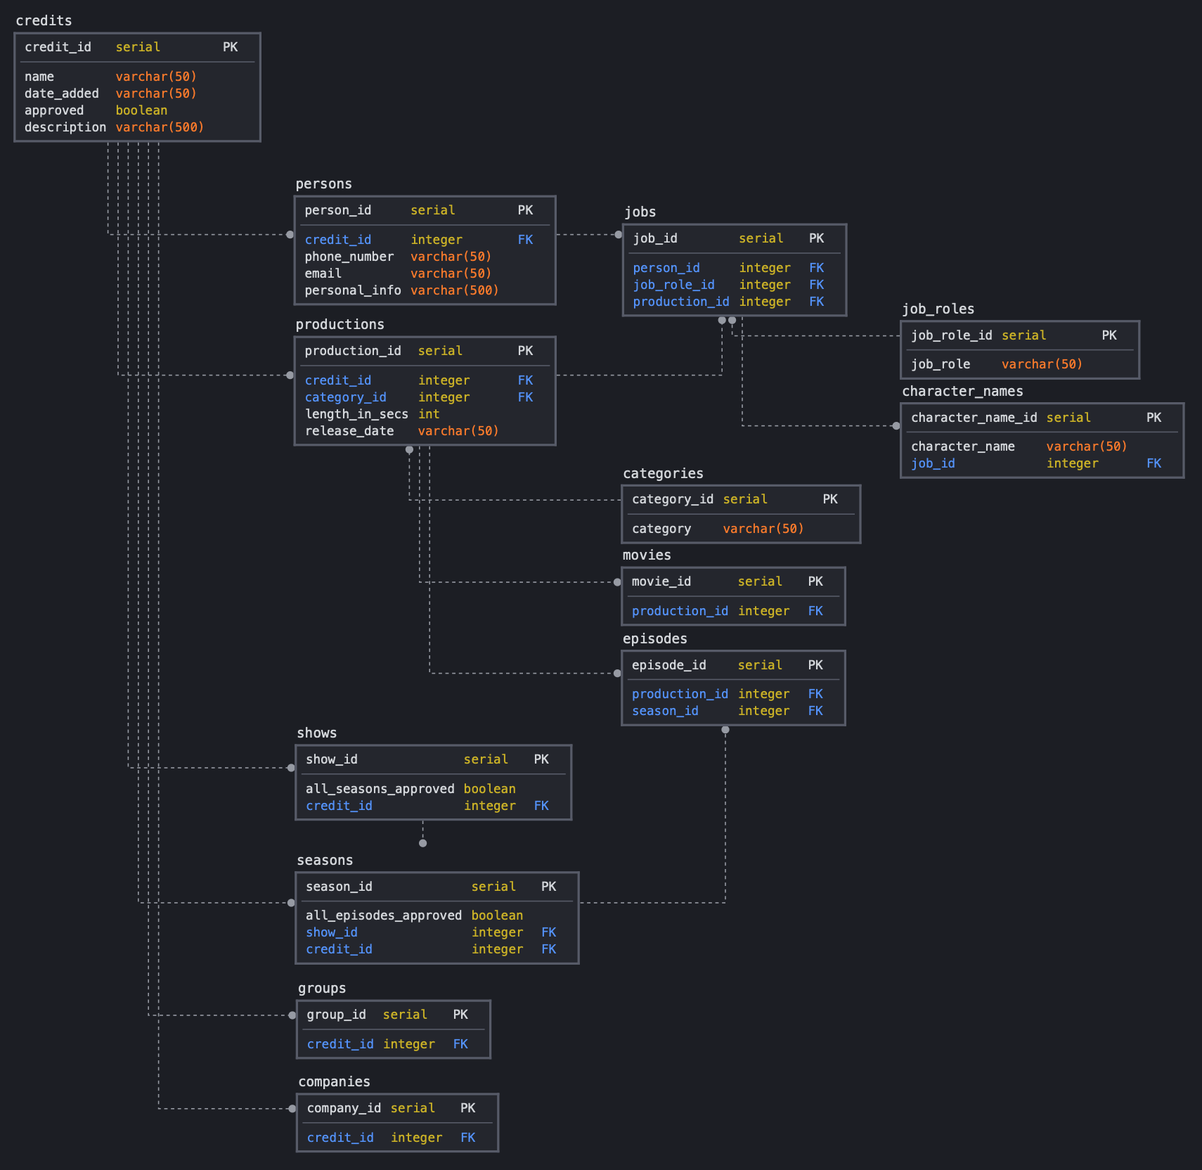
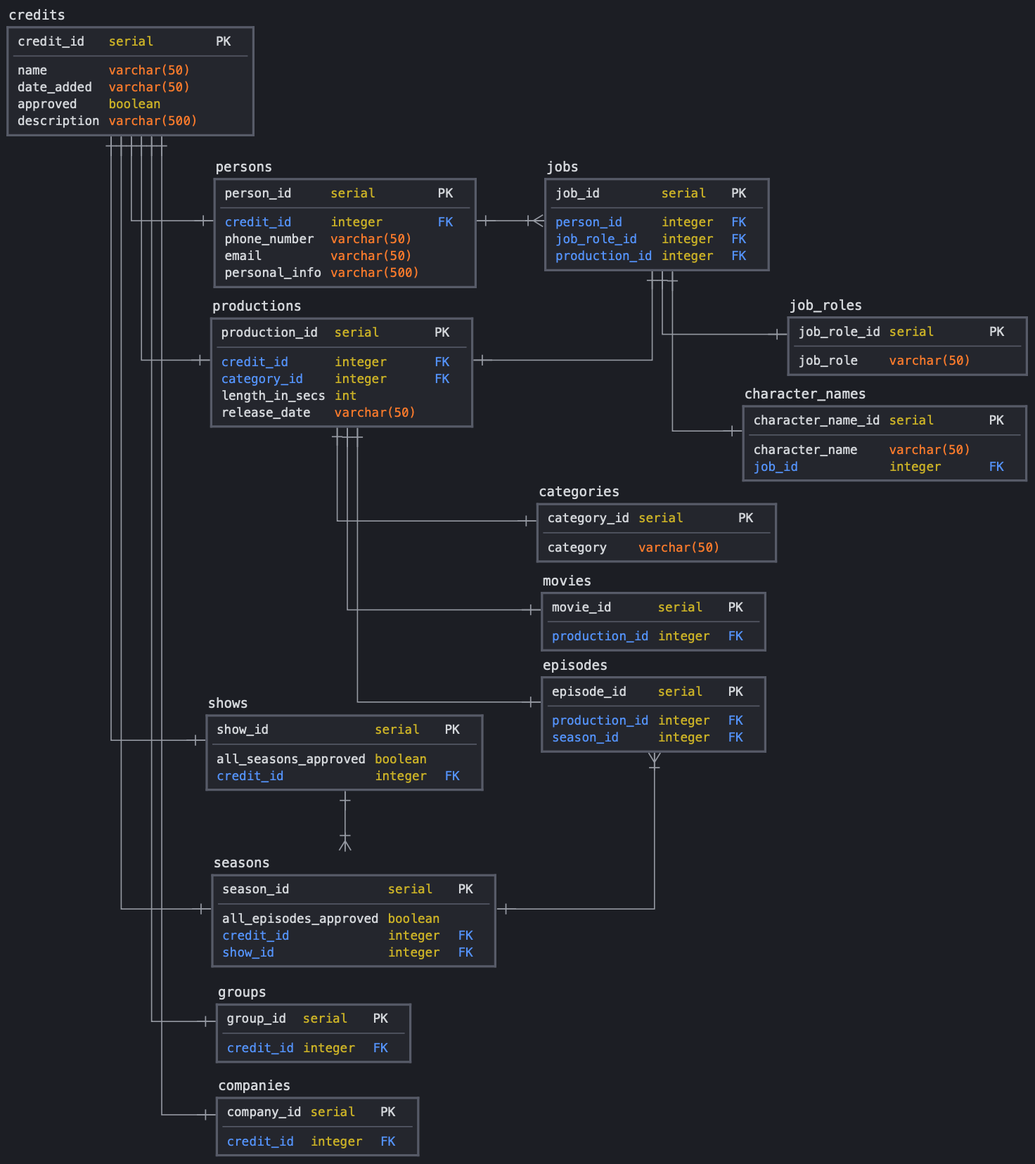
Updates from Overleaf

diff --git a/sections/8procesevaluering.tex b/sections/8procesevaluering.tex
@@ -32,9 +32,11 @@ SCRUM er et utroligt effektiv projekt styringsværktøj til agil udvikling af so
 Men det er én ting at skrive tanker og overvejelser ned. Det er en anden sag at anvende det, og det viste sig at have varierende effektivitet. Samlet set nåede gruppen at holde 4 Sprint. Første sprint var meget kort, og handlede om at lave struktur omkring objektopbygningen og få startet på en GUI. Dette sprint gik godt da opgaverne var delt ud i meget små bidder, som var hurtige at implementere. Samtidig var alle opgaver repræsenteret i et Sprint Backlog via et kanban board på GitHub. Dette gjorde det nemt at se hvad der skulle laves, hvem der havde ansvar for hvad, hvad der var blevet lavet og hvor meget der manglede. Alt i alt et godt sprint.\\\\
 Sprint 2 var en anden sag. Da vi planlagde sprint 2 aftalte vi at det skulle handle om input og output til filer, hvilket er et fint mål. Det gik dog galt da opgaverne blev delt op på to punkter. Input/outpu på gui og read/write på filer.Dette er meget svært at forholde sig til. Ja der skal skrives til filer, men hvad kan én der sidder ikke og laver noget gå i gang med. Da kanban kun indeholder to punkter kan man ikke visualisere sig hvilket funktionalitet man skal implementere. Har forsvandt alle fordelene ved SCRUM da denne opdeling fjerne den inkrementele del af det, da det ender med at opgaven først er færdig når man kan skrive til alle filer. Derved bliver det en big-bang levering i stedet, hvilket kan være fint nok, men ikke når man arbejder agilt. Godt nok snakkede gruppen om ved starten af sprintet at "jaja vi skal nok dele den ud i forhold til brugsmønstre osv." men realiteten er, at hvis det ikke sker allerede ved planlægningen af sprintet, så bliver det ikke rigtig gjort. Det viser sig at være sjovere bare at kode end det er at lave diagrammer og brugsmønsterrealiseringer. Implmenteringen endte godt nok med at virke, men koden var rodet, forvirrende og dårligt struktureret. Dette havde kunne forbedres hvis der var brug noget mere tid på at lave design, inden kodningen tog fart. Kodeleveringen var langsom og dårlig. Alt i alt, et elendigt sprint.\\\\
 Sprint 3 faldt efter midtvejsseminaret, hvor gruppen skulle fremlægge sit projekt, og få feedback, samt se andre fremlægge deres produkt, og give dem feedback. Dette blev lidt en øjenåbner da vi opdagede netop hvor dårlig strukturen på produktet var. Derfor var der enighed om, at sprint 3, handlede om restrukturering. Sprintplanlægningen gik til værks og det første der skulle klarlægges var et sprint mål. På gruppens GitHub blev sprintets mål defineret som: 
-The sprint goal for this sprint is a restructured program using interfaces, facades and singleton patterns to ensure a well-defined three-layered architecture, and minimizes the use og static
+
+\textit{The sprint goal for this sprint is a restructured program using interfaces, facades and singleton patterns to ensure a well-defined three-layered architecture, and minimizes the use og static
 As well as:
-A relational Database has been structured and defined but not implemented in the program.
+A relational Database has been structured and defined but not implemented in the program.}
+
 Altså var der i sprintplanlægningen svaret på hvad spørgsmålet. Hvad skal laves. Gruppen diskuterede derfor hvorfor sprintet var vigtigt, og nåede til enighed om, at kravene der var sat skulle overholdes, og det gjorde den nuværende struktur ikke. Og sidst manglede sprøgsmålet hvordan. Vi kom fra et netop dårligt sprint med alt for få og for brede opgaver, så dette skulle absolut ændres. Der blev lagt fokus på design-patterns som singleton og facader som skulle implementeres. Der var fokus på at databasen skulle opsættes. Der skulle implementeres interfaces på de forskellige objekter og static metoder skulle gøre non-static. Der var mange opgaver, men de havde en størrelse der var til at bide over, og der var nok opgaver til at alle kunne sidde med noget samtidig. Næsten lige som SCRUM skal være. Og endda da der ikke var flere opgaver, startede en dialog i gruppen og fandt hurtigt frem til en opgave der var relevant at gå i gang med, så spildtid blev minimeret inden sprintet var ovre. Der blev undervej f.eks. tilføjet en opgave om, at man skal kunne querye database, som ikke var inkludere i starten. Derved blev der leveret et inkrement mere end hvad var planlagt, for at minimere idle-time. Det endte med at være et udemærket sprint hvor gruppen opnåede en langt bedre struktur på produktet, særligt med hensigt om at overholde tre-lags-modellen.\\\\
 4. sprint var sidste sprint og der var massere at lave. Gruppen havde lært fra tidligere fejl, at opgaver ikke skal være for abstrakte og store. Dette var der meget fokus på, samt at bruge kanban endnu mere. Jo mere der bliver tilføjet til kanban, jo nemmere er det at have overblik over hvad status er pt. Hver gang et nyt issue, eller en ny fejl/mulighed opstod, blev der, i stedet for at gå i gang med en ny opgave så man sad med to, skrevet en ny note på kanban, så fokus kunne forblive på den nuværende opgave, og dermed færdiggøres. Derved kan resten af gruppen også gå i gang med disse i stedet for at sidde stille. 4 Sprint blev dog stort, og der blev leveret flere inkrementer. Måske var sprintet en smule for stort, men projektet var også ved at være ovre så gruppen var nødt til at dedikere meget tid til det. Og det endte med at gruppen fik opnået stort set alle opgaver og havde en god grundfunktionalitet, der var nem at udvide på og som samtidig overholdte tre-lags-modellen. 4. sprint var et godt sprint, og havde klart det bedste fokus på opgavestruktureringen.
 Alt i alt har gruppen lært utroligt meget om SCRUM. Både hvordan det absolut ikke skal bruges, men også omvendt; hvordan det kan udnyttes på en effektiv måde. Vi i gruppen har i hvert fald opdaget hvor effektivt det kan være, hvis man tager sig tid til at lave ordentlige sprint-planlægninger.
@@ -42,5 +44,42 @@ Alt i alt har gruppen lært utroligt meget om SCRUM. Både hvordan det absolut i
 Samarbejdet i gruppen har generelt set været godt, og vi har alle komplimenteret hindanden på en god måde. Gruppen har været gode til at overholde de indbyrdes aftaler, hvilket resulterede i et miljø hvor vi alle kunne stole på hinanden, og stole på at de ting der skulle laves, blev gjort udførligt. Den gode gruppe dynamik, blev også hjulpet godt på vej af en håndfuld sociale arrangementer. Disse sociale arrangementer har nemlig lagt bund for at gode venskaber på tværs af gruppen kunne gro. 
 
 Udover dette har vejledermøderne også været super brugbare, og "on point", når det kommer til at blive hjulpet i den rigtige retning. Det har ikke været ved alle gruppens samtaler med vores vejleder Henrik, at der har været lige meget at diskutere, men når der endelig var et problem, havde Henrik altid svaret. Hvilket var super betryggende, og gav gruppen rig mulighed for at arbejde videre, med et positivt mindset og et klart overblik, efter hvert vejledermøde.
+\\\\
+For videre at uddybe vores Belbin-roller, er det også lige værd at komme ind på, hvordan de forskellige roller gruppens medlemmer besidder, har hjulpet til udførelsen af projektet. I tabel \ref{tab:Belbin_roller} ses listen over Gruppens belbin-roller. Samlet set skaber vores kombination af roller både fordele for gruppens arbejde, men der er også svagheder forbundet hertil.
+        \begin{table}[H]
+        \centering
+        \begin{tabular}{|p{30mm}|p{50mm}|}
+        \hline
+            Jonas Beltoft & Afslutter\newline
+                            Specialist \newline
+                            Idémand
+        \\ \hline
+            Hans Pedersen & Afslutter \newline
+                            Analysator \newline
+                            Specialist
+        \\ \hline
+            Victor Bruun & Formidler \newline
+                           Kontaktskaber \newline
+                           Afslutter
+        \\ \hline
+            Jesper Bork & Kontaktskaber \newline
+                          Koordinator \newline
+                          Formidler
+        \\ \hline
+            Casper Stillinge & Specialist \newline
+                               Organisator \newline
+                               Afslutter
+        \\ \hline
+            Peter Ratgen & Formidler \newline
+                           Afslutter \newline
+                           Specialist
+        \\ \hline
+        \end{tabular}
+            \caption{Gruppens Belbin-roller}
+            \label{tab:Belbin_roller}
+        \end{table}
+Af styrker kan det påpeges at fem ud af de seks gruppemedlemmer er afsluttere, hvilket vil sige, at gruppen er god til at få en opgave afsluttet og gjort færdigt, så længe strukturen er på plads. Dertil er fire ud af seks medlemmer specialister. Dette bidrager til at gruppen besidder en bred viden, og samtidigt er selvstartende. Tre ud af seks er formidlere, som er med til at skabe et godt samarbejde i gruppen.
+
+Modsat kan svaghederne ligeledes findes i at der er mange afsluttere, men ingen opstartere i gruppen. Det betyder at gruppen har haft problemer med at komme i gang med opgaverne, indtil én af gruppens medlemmer påtager sig en lederrolle. Ligeledes er de mange afsluttere og få koordinatorer samt opstartere, en svær kombination. I og med at der er få gruppemedlemmer, der instinktivt ville lave forarbejdet, så der var en klar plan, som afslutterne kunne gøre færdigt. Gruppen har også en del specialister, som har resulteret i, at der ofte var blevet lagt fokus i mindre detaljer
 \\\\
 Afsluttende er det værd at nævne, at alle i gruppen havde en unik baggrund, når det kom til kodekendskab og udvikling af software, hvilket betød at nogle medlemmer i gruppen er mere rutineret i miljøet end andre. Dette har dog ikke været et problem, dat det blev set som en mulighed for at lære noget mere, og blive stærkere på områder man individuelt set ikke ville føle sig tryg i normalt. Det har været en lærerig oplevelse, og vi, gruppens medlemmer, er alle blevet klogere, både på samarbejde og hvor vi hver især står fagligt, efter denne opgave.

diff --git a/sections/2fagligtvidensgrundlag.tex b/sections/2fagligtvidensgrundlag.tex
@@ -187,6 +187,18 @@ En vigtig pointe omkring UP er at det er en proces drevet af brugsmønstre (use 
 
 \subsection{UML}
 
+
+
+UML eller Unified Modeling Language, tilbyder en måde at visualisere et systems arkitekturelle blueprints i et diagram. 
+
+
+
+
+
+\subsubsection{Klassediagrammer}
+
+Det er bl.a. brugt til at lave Class Diagrams, da det giver en oversigt over hvilke klasser der er i et program, hvilke attributter og metoder de har, samt disses synlighed (Access Modifiers). UML anfører også sammenhængen mellem klasserne, om de fx nedarver fra klassen eller andet, hvilket er en stor del af grunden til at man bruger UML.  Ud fra det kan man aflæse hvordan forskellige klasser bliver brugt andre steder i programmet, og derved få en bedre forståelse for hvordan programmet virker, uden at man har set programmet køre. Der er særlig notation til at fremhæve alle OOP's fire basale koncepter, hvilket gør det muligt at udarbejde og/eller visualisere præcist det program, der er ønsket. Øverst ses navnet på den klasse, der beskrives. 
+
 \begin{wrapfigure}{r}{0.30\textwidth}
     \vspace{0cm}
     \begin{tikzpicture}
@@ -216,20 +228,12 @@ En vigtig pointe omkring UP er at det er en proces drevet af brugsmønstre (use 
   \label{fig:UML eksempel}
 \end{wrapfigure} 
 
-UML eller Unified Modeling Language, tilbyder en måde at visualisere et systems arkitekturelle blueprints i et diagram. 
-
-
-
-
-
-\subsubsection{Klassediagrammer}
-
-Det er bl.a. brugt til at lave Class Diagrams, da det giver en oversigt over hvilke klasser der er i et program, hvilke attributter og metoder de har, samt disses synlighed (Access Modifiers). UML anfører også sammenhængen mellem klasserne, om de fx nedarver fra klassen eller andet, hvilket er en stor del af grunden til at man bruger UML.  Ud fra det kan man aflæse hvordan forskellige klasser bliver brugt andre steder i programmet, og derved få en bedre forståelse for hvordan programmet virker, uden at man har set programmet køre. Der er særlig notation til at fremhæve alle OOP's fire basale koncepter, hvilket gør det muligt at udarbejde og/eller visualisere præcist det program, der er ønsket. Øverst ses navnet på den klasse, der beskrives. I sektionen under, er alle klassens attributter, og under dem er klassens metoder. Hvis klassen har en eller flere constructors, kan disse også ses, da de har det samme navn som klassen. På grund af alt dette, kan UML være et meget kraftfuldt værktøj under udviklingen af et objektorienteret program, da man kan visualisere alle de objekter og klasser, der bliver lavet og instantieret. Samt sammenhængen mellem disse objekter og klasser. UML bruges også til andre ting, såsom brugsmønster-diagrammer, som giver et overblik over aktører og de brugsmønstrer de interagerer med. Dette er en anderledes måde at modellere på, men det er alt sammen under UML, da det er en universel måde at forbinde elementer på, i en visuel kontekst.
+I sektionen under, er alle klassens attributter, og under dem er klassens metoder. Hvis klassen har en eller flere constructors, kan disse også ses, da de har det samme navn som klassen. På grund af alt dette, kan UML være et meget kraftfuldt værktøj under udviklingen af et objektorienteret program, da man kan visualisere alle de objekter og klasser, der bliver lavet og instantieret. Samt sammenhængen mellem disse objekter og klasser. UML bruges også til andre ting, såsom brugsmønster-diagrammer, som giver et overblik over aktører og de brugsmønstrer de interagerer med. Dette er en anderledes måde at modellere på, men det er alt sammen under UML, da det er en universel måde at forbinde elementer på, i en visuel kontekst.
 
 
 \subsubsection{Beskrivelse af database med UML}
 UML kan også bruges til at vise en database. Det ses nemt hvilken udgave, der er brugt, da man her vil se notationer så som \{PK\} som beskriver at denne attribut er en primær nøgle i denne tabel. Hver kasse er her ikke en klasse, men en tabel. Den har kun attributter, da en tabel ikke har funktioner. Et UML diagram over en database vil også have forskellige måder at visualisere sammenhæng mellem tabellerne.
-Klassediagrammet som beskrevet har kun én standardiseret måde at forbinde klasserne på, hvilket gør det nemmere at lære og hurtigere at finde ud af, hvad der menes med de forskellige symboler man støder på, hvorimod et UML diagram over en database har flere forskellige måder at vise sammenhæng på, selvom de viser det samme. I klassediagrammet vil man se symboler som f.eks. betyder at denne klasse nedarver fra en anden klasse, eller bl.a. viser at den ene klasse "bruger" eller "afhænger" af en anden klasse. Dette finder man ikke i et database UML diagram. Her viser forbindelserne, hvor mange elementer, der kan være, f.eks. kan en kunde købe mange varer, men en type vare kan købes af mange forskellige kunder, så det vil kaldes en mange til mange forbindelse. Dette kan noteres på forskellige måder, f.eks. med crows foot, Chen eller andre. Vi som gruppe vil bruge Chen, som er en meget simpel måde at vise, om det er 0, 1 eller flere. Disse notationsformer er også brugt i ER og EER modeller, men det betyder ikke at et UML diagram er det samme som et ER eller EER diagram, da de ikke går direkte ned i databasen, men er mere en overordnet beskrivelse og kan vise andre ting end UML kan.
+Klassediagrammet som beskrevet har kun én standardiseret måde at forbinde klasserne på, hvilket gør det nemmere at lære og hurtigere at finde ud af, hvad der menes med de forskellige symboler man støder på, hvorimod et UML diagram over en database har flere forskellige måder at vise sammenhæng på, selvom de viser det samme. I klassediagrammet vil man se symboler som f.eks. betyder at denne klasse nedarver fra en anden klasse, eller bl.a. viser at den ene klasse "bruger" eller "afhænger" af en anden klasse. Dette finder man ikke i et database UML diagram. Her viser forbindelserne, hvor mange elementer, der kan være, f.eks. kan en kunde købe mange varer, men en type vare kan købes af mange forskellige kunder, så det vil kaldes en mange til mange forbindelse. Dette kan noteres på forskellige måder, f.eks. med crows foot, Chen eller andre. Vi som gruppe vil bruge Crow´s foot, som er en meget simpel måde at vise, om det er 0, 1 eller flere. Disse notationsformer er også brugt i ER og EER modeller, men det betyder ikke at et UML diagram er det samme som et ER eller EER diagram, da de ikke går direkte ned i databasen, men er mere en overordnet beskrivelse og kan vise andre ting end UML kan.
 
 \subsection{MoSCoW}
 MoSCoW er en model der bruges når en liste af krav skal prioriteres. Kravene indeles i 4 grupper, efter hvor vigtige de er for projektets succes. Her startes der med "Must Have" som er de vigtigste krav og som er nødvendige for at projekt bliver en succes. Dernæst kommer "Should Have" som er krav, der ikke er nødvendige, men det vurderes at de giver en tilstrækkelig værdi til projektet, i forhold til arbejdsindsatsen. "Could Have" er krav som ikke er vigtige for projekts gennemførsel, de kan tages med i tilfælde af overskydende arbejdsressourcer, men der planlægges ikke efter, at de skal medtages. Til sidst findes "Would Have" som er krav, der giver mening for projektet, men er valgt fra i den pågældende udgave af projektet. 

diff --git a/sections/4_hovedtekst/6_Implementering.tex b/sections/4_hovedtekst/6_Implementering.tex
@@ -34,7 +34,7 @@ søgningen, ved at kalde de korrekte Managers for at lave søgningen. Her bliver
 
 \subsubsection{Overholdelse af Model-View-Controller mønsteret} Hvordan sikrer gruppen at benytte sig effektivt af Model-View-Controller mønsteret? 
 JavaFX library'et indeholer en typer af lister kaldet ObservableLists. Observable lister fungerer som de flereste andre lister, og kan instantieres som bl.a. en observable ArrayList. Det specielle ved ObservableLister er at man kan tilføje "Listeners". Listeners er som navnet angiver, en enhed der kan "lytte" efter ændringer på objekterne som listerne indeholder. Lad os sige brugeren får præsenteret en liste af personer. Dette er viewet i modellen. Her vælger brugeren så at godkende en person. Den handling registrerer en controller (Controller i mønsteret) og i programmet kalder controlleren en funktion i applicatioManager, der ænder noget data nede i databasen (Model i mønsteret). Da denne liste har en listener på ændringer i data indeholdt i listen, notificerer ændringen af data denne listener, som får viewet til at opdatere, så brugeren nu ser det opdaterede data.
-Tilføjelsen af en listener til en observableList kan ske på følgende som det ses på figur \textbf{RET REFERENCE}
+Tilføjelsen af en listener til en observableList kan implementeres som det ses på Listing \ref{lst:setContent}.
 
 
 \definecolor{javared}{rgb}{0.6,0,0} % for strings
@@ -57,36 +57,36 @@ showspaces=false,
 showstringspaces=false}
 
 
-\begin{lstlisting}[language=Java, label=lst:setContent, caption = set]
-    private void setContent(AnchorPane listToApprove, ObservableList
-    <? extends ICredit> creditList){
-        int offset = 20;
-        for (ICredit credit : creditList){
-            if (!credit.isApproved()) {
-                addItem(listToApprove, credit, offset);
-                offset += 30;
-            }
+\begin{lstlisting}[language=Java, label=lst:setContent, caption = setContent]
+private void setContent(AnchorPane listToApprove, ObservableList<? extends ICredit> creditList){
+    int offset = 20;
+    for (ICredit credit : creditList){
+        if (!credit.isApproved()) {
+            addItem(listToApprove, credit, offset);
+            offset += 30;
         }
-
-        creditList.addListener((ListChangeListener<ICredit>) change -> {
-            int offset1 = 20;
-            while (change.next()) {
-                if (change.wasAdded()) {
-                    for (ICredit credit : change.getAddedSubList()){
-                        if (!credit.isApproved()){
-                            addItem(listToApprove, credit, offset1);
-                            offset1 += 30;
-                        }
-                    }
-                } else if (change.wasRemoved()) {
-                    for (ICredit credit : change.getRemoved()){
-                        System.out.println("Removed credit: " + credit);
-                        removeItem(listToApprove, credit);
+    }
+    creditList.addListener((ListChangeListener<ICredit>) change -> {
+        int offset1 = 20;
+        while (change.next()) {
+            if (change.wasAdded()) {
+                for (ICredit credit : change.getAddedSubList()){
+                    if (!credit.isApproved()){
+                        addItem(listToApprove, credit, offset1);
+                        offset1 += 30;
                     }
                 }
+            } else if (change.wasRemoved()) {
+                for (ICredit credit : change.getRemoved()){
+                    System.out.println("Removed credit: " + credit);
+                    removeItem(listToApprove, credit);
+                }
             }
-        });
+        }
+    });
 \end{lstlisting}
+
+Metoden setConten tager et AnchorPane og en ObservableList som argumenter. Først tjekkes de credtis som listen indeholde igennem, og hvis de ikke er godkendt/approved bliver de tilføjet til det medfølgende AnchorPane, som skal indeholde de krediteringer som ikke er godkendt. Når der er itereret over alle krediteringer i listen, bliver der tilføjet en listener til listen som starter ved linje 9 i listing \ref{lst:setContent}. Listeneren lytter efter to ting. Om der bliver tilføjet til listen, linje 12, og om der bliver fjernet fra listen, linje 19. Hvis der bliver tilføjet til listen, tilføjes det nye element automatisk til det AnchorPane som method har taget som argument. Hvis der fjernes fra listen, fjernes dette element fra dette AnchorPane.
 
 
 

diff --git a/main.tex b/main.tex
@@ -35,6 +35,8 @@
 \usetikzlibrary{arrows}
 \tikzset{baseline,every tree node/.style={align=center,anchor=north}}
 
+\begin{comment}
+
 \lstset{
   inputencoding=utf8/latin1,
   basicstyle=\ttfamily\small,
@@ -42,6 +44,39 @@
   keywordstyle=\color{blue}\bfseries,
   rulecolor=\color{black}
 }
+
+\end{comment}
+
+\lstset{
+        language=java,
+         basicstyle=\footnotesize\ttfamily,     % Standardskrift
+         %numbers=left,                          % Place of linenumber
+         numberstyle=\ttfamily,                 % Stil der Zeilennummern
+         stepnumber=1,                          % Abstand zwischen den Zeilennummern
+         numbersep=8pt,                         % Abstand der Nummern zum Text
+         tabsize=4,                             % Groesse von Tabs
+         extendedchars=true,                    %
+         breaklines=true,                       % Zeilen werden Umgebrochen
+         commentstyle=\color{mygreen},
+         keywordstyle=\color{blue},
+            frame=b,
+        commentstyle=\color{dkgreen},
+%        keywordstyle=[1]\textbf,               % Stil der Keywords
+%         keywordstyle=[2]\textbf,              %
+ %       keywordstyle=[3]\textbf,               %
+ %        keywordstyle=[4]\textbf,   \sqrt{\sqrt{}} %
+         stringstyle=\color{black}\ttfamily,    % Farbe der String
+         showspaces=false,                      % Leerzeichen anzeigen ?
+         showtabs=false,                        % Tabs anzeigen ?
+         xleftmargin=17pt,
+         framexleftmargin=17pt,
+         framexrightmargin=5pt,
+         framexbottommargin=4pt,
+         %backgroundcolor=\color{lightgray},
+         showstringspaces=false,                 % Leerzeichen in Strings anzeigen? ¨
+         frame = single,
+         captionpos=b
+ }
 
 \bibliography{Bibliography.bib}
 

diff --git a/sections/4_hovedtekst/5_Databasedesign.tex b/sections/4_hovedtekst/5_Databasedesign.tex
@@ -13,7 +13,7 @@ Databasen bestod i første iteration af individuelle TXT filer som blev brugt so
 \end{comment}
 
 I anden iteration er der gjort brug af en SQL relationel database, på baggrund af kravene til anden iteration. Ud fra de objekter der findes i systemet har gruppen udarbejdet et UML diagram over databasedesignet, på en sådan måde at det som minimum opfylder 3. normalform. 
-
+UML diagrammet over databasedesignet giver et godt overblik, og viser relationerne mellem de forskellige tabeller, ved crows foot notation. I figur \ref{fig:databaseUML} ses alle tabeller der eksistere i databasen. Her ses det at en "credit" kan have én "person", men at én "person" kan have én eller mange "jobs". 
 \begin{figure}[H]
     \centering
     \makebox[\textwidth][c]{\includegraphics[width=1.25\textwidth]{images/Database design.png}}

diff --git a/sections/Redaktionelt.tex b/sections/Redaktionelt.tex
@@ -23,7 +23,7 @@
         Krav                   & Jesper Bork      &          &  \\ \hline
         Analyse                &                  &              &  \\ \hline
         Design                 & Peter Ratgen     & Hans Pedersen&  \\ \hline
-        Database Design        & Jonas Beltoft    &          &  \\ \hline
+        Database Design        & Jonas Beltoft    & Jesper Bork  &  \\ \hline
         Implementering         & Peter Ratgen \newline 
                                  Hans Petersen \newline
                                  Jonas Beltoft    &          &  \\ \hline
